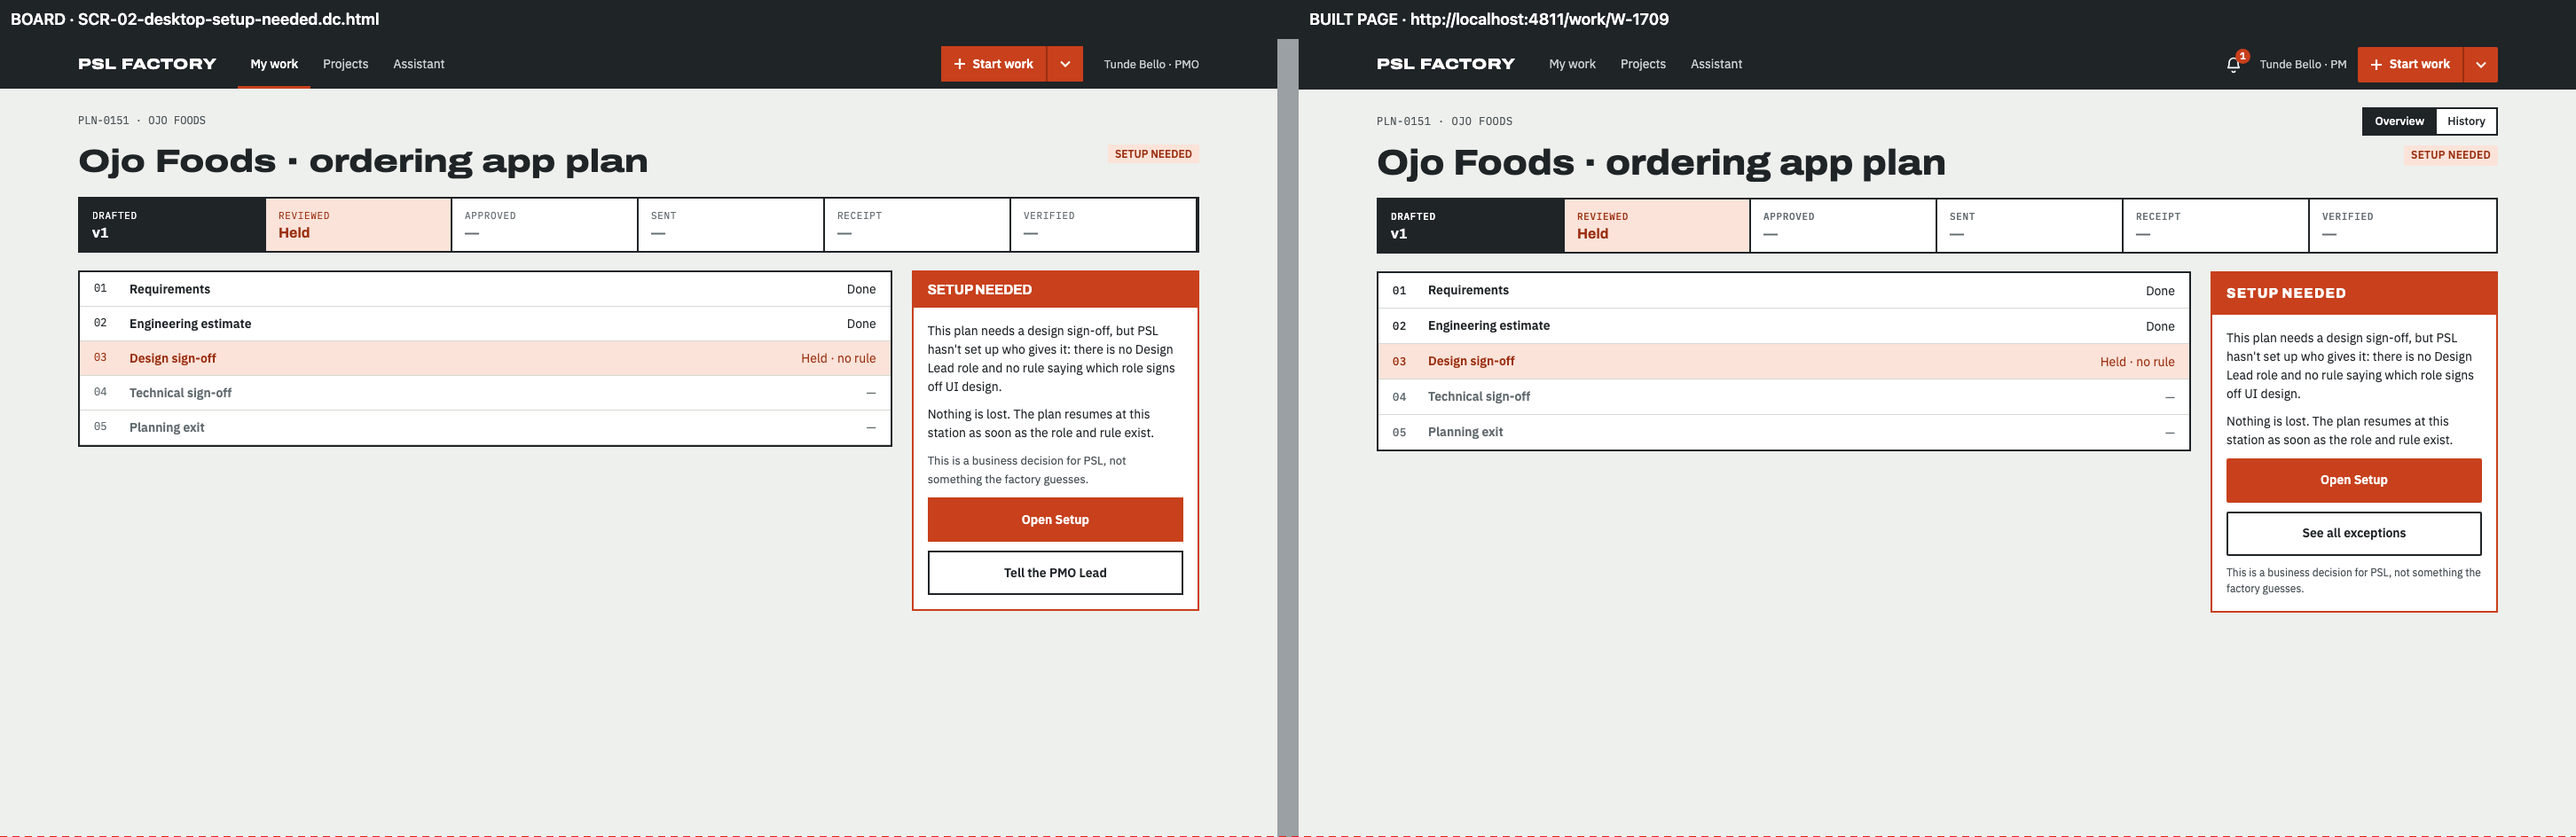
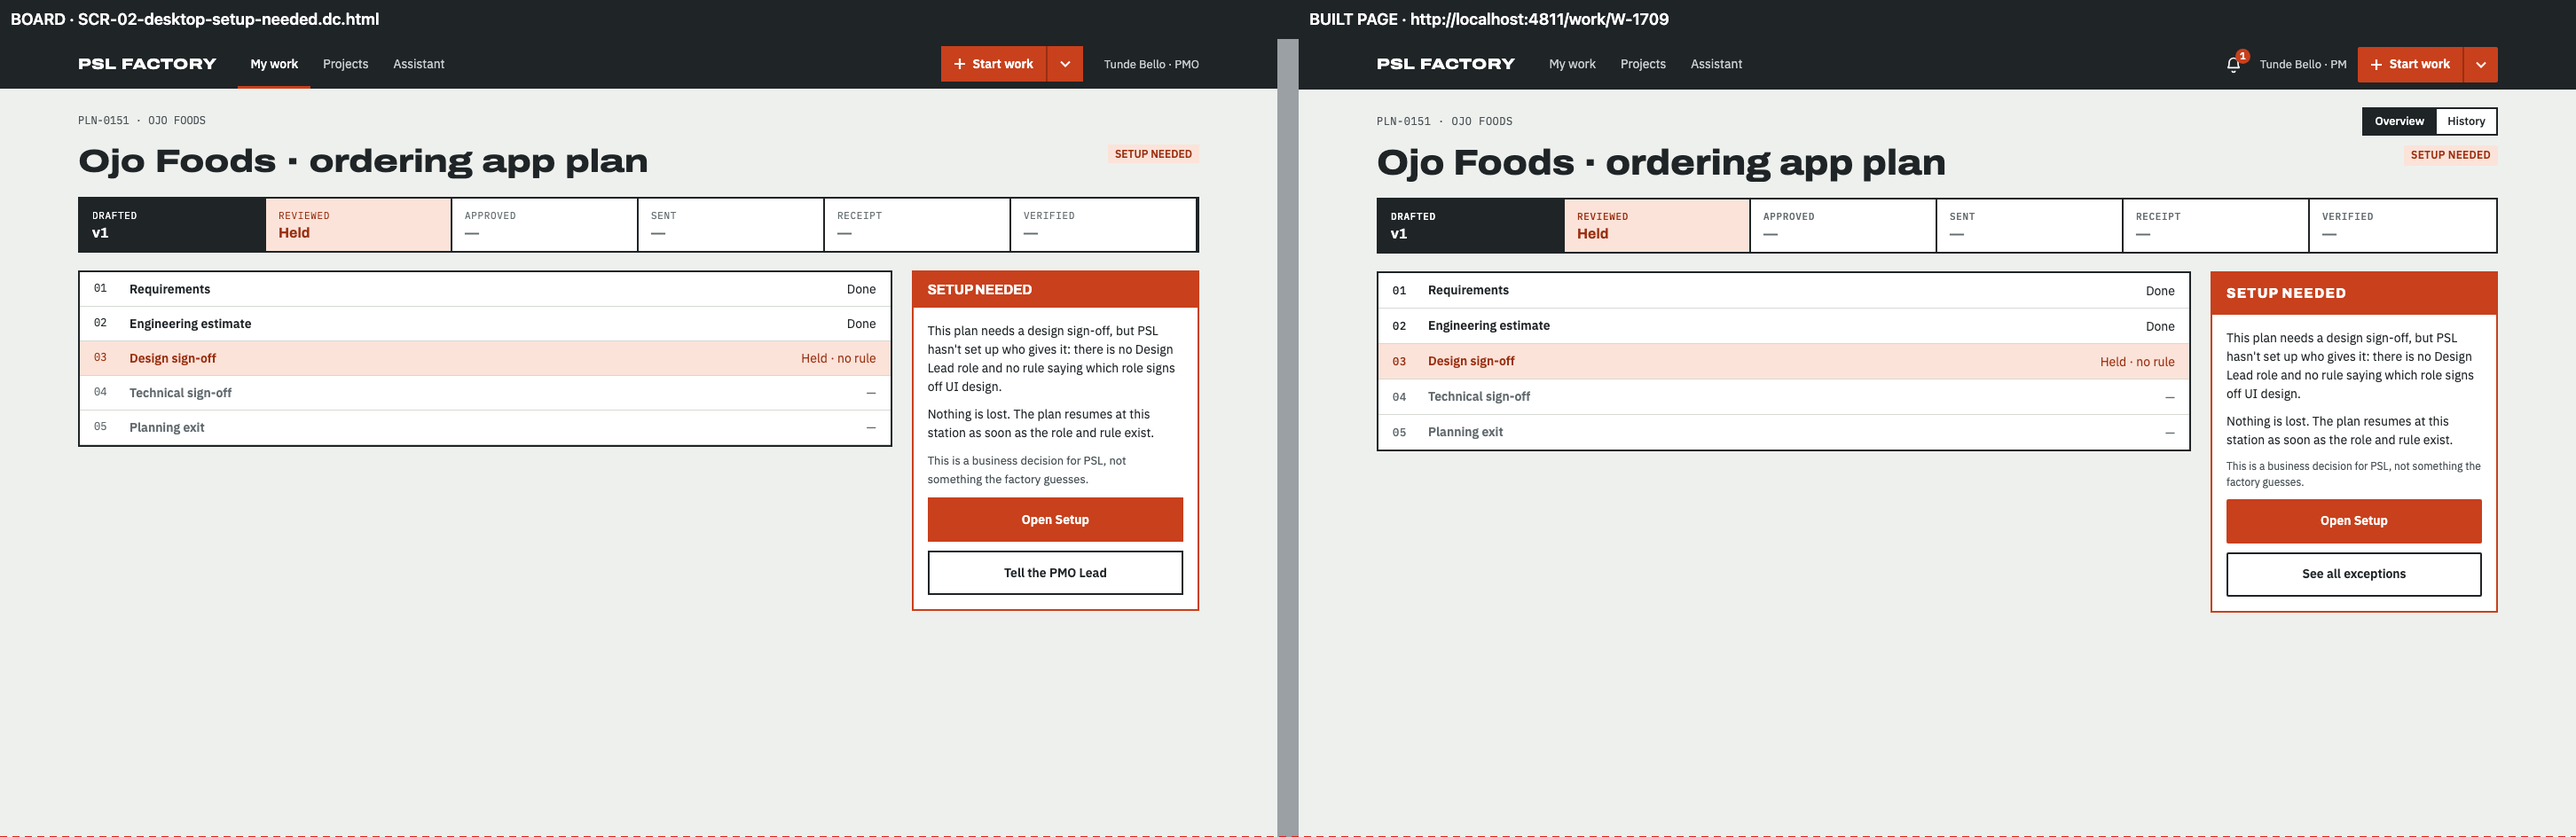
Delivery: follow-up round 2 fixes the setup-needed note order (95.4); the full checks need a re-run on a quieter machine

Changed region(s): [[0.8368, 0.5222, 0.9607, 0.7066]]

diff --git a/delivery/followups-01/build-note.md b/delivery/followups-01/build-note.md
@@ -27,3 +27,15 @@ LANE: frontend
 - Playwright (E2E_PORT=4521 MOCK_PORT=4522): my-work, work-item-board, setup, alerts-bell, decide-board and projects specs: 163 passed, 1 failed (projects "1 PROJECTS", fixed in e2e and re-run: passed). alerts.spec.ts at 390: 9 passed. I did not run the other e2e specs (decide, exceptions, finance-month-end, overview, response, start-work, work-item, frame).
 - Not done: the design-fidelity tool on the My work empty boards (item 9) and on the decide done phone board (item 1). The changes are small, but a fidelity score has not been re-measured.
 - Ports 4521 and 4522 are free; test-results was deleted; `git status --porcelain` is empty.
+
+## Round 2
+
+Head: 290a212a2441e67190e21fc61c940a77a670f4ce (was 1a7e4c9).
+
+Fixed UI-1-1 only. The state panel has a new presentation flag `note_first` (type, mock-contract schema, `StatePanel` in WorkItemOverview.tsx). When true, the note renders before the panel links; otherwise it stays after them. W-1709's desktop panel sets it, so setup-needed now reads body, note, "Open Setup", "See all exceptions", as the board draws. Owner-needed and effect-uncertain do not set it and are unchanged. No check on the work id.
+
+Design-fidelity, production build, 1440, FRAME_FIXTURES=1, ports 4811/4812, pm cookie, F-14 exceptions, wait 500 ms (reports in fidelity/<board>-1440/):
+- SCR-02-desktop-setup-needed (W-1709): visual 95.4 (was 89.8), coverage 96.7 raw, 100 with exceptions. PASS.
+- SCR-02-desktop-owner-needed (W-1708): visual 92.7 (was 92.7), coverage 100 with exceptions. PASS. One run scored 88 because Google Fonts could not be reached; two reruns gave 92.7.
+
+Checks: lint and typecheck clean, production build clean, and every test file passes. The machine load was above 200 while I ran the full suite, so each full `delivery/checks.sh` run failed 1 to 4 different timing-sensitive tests (ECONNRESET or loading-state timeouts in mock-contract, work-item-board, work-item, decide, setup-rules, start-work, response). Each of those files passes when run alone (459 of 459 in the last six-file run; 134 of 134 for response and work-item-board). Re-run the gate on a quiet machine to confirm.
